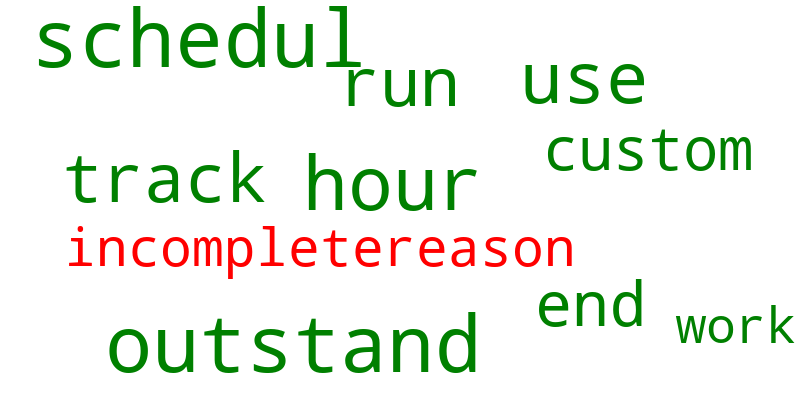
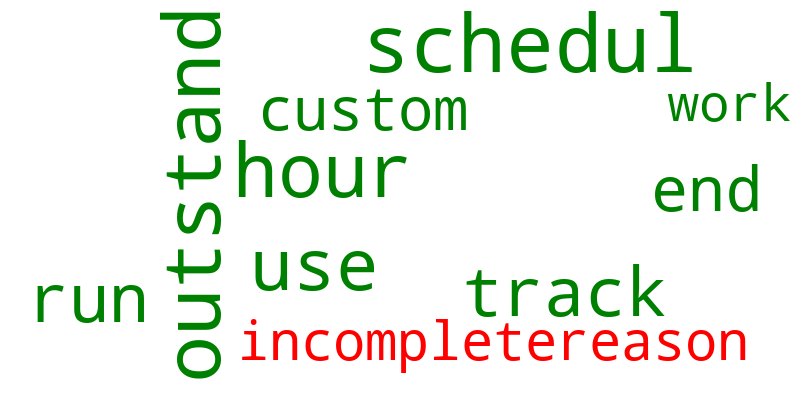
add 'source' parameter to explain() add generate_word_cloud() method

Changed region(s): [[0.0312, 0.27, 1.0, 0.96], [0.0312, 0.0, 1.0, 0.33], [0.6875, 0.33, 0.9688, 0.54]]

diff --git a/src/NLPClassifierExplainer/NLPClassificationExplainer.py b/src/NLPClassifierExplainer/NLPClassificationExplainer.py
@@ -1,14 +1,29 @@
 from .Explanation_of_tf_idf import get_similarity_per_class, get_keywords, get_keywords_per_class, find_overlap
+from wordcloud import WordCloud
 
 class NLPClassificationExplainer:
 
 
     def __init__ (self, model):
+        '''
+        
+        Instantiate an explainer class with specified model
+
+        Parameters
+        ----------
+
+        model: object
+            a text classification model that needs to have the following attributes
+                vectorizere: a sklearn-compatible vectorizer (eg: tf-idf)
+                classifier: a sklearn compatible classifier (eg: KNN classifier)
+
+        '''
+
         self.classifier = model.classifier
         self.vectorizer = model.vectorizer
         
 
-    def explain (self, query, top_n=10):
+    def explain (self, query, source=None, top_n=10):
         '''
         
 
@@ -16,13 +31,21 @@ class NLPClassificationExplainer:
         ----------
         query : str
             A note for which an recommendation has to be explained.
-            top_n - number of keywords to extract
+        
+        top_n: int
+            number of keywords to extract from same class neighbours 
+
+        source: list of str
+            a list of documents (strings) used to generate neighbours for explanations. 
+            if source is not provided, will try to use the classifier training data if available. Otherwise,
+            an exception will be thrown. 
+
  
 
         Raises
         ------
         AssertionError
-            If the model is not trained.
+        
 
         Returns
         -------
@@ -42,11 +65,17 @@ class NLPClassificationExplainer:
                   and each value is a 2D list containg the word (String) and
                   whether it is present in the query or not (Boolean).               
         '''
-            
-        source_tfidf  = self.classifier._fit_X
+
+        if source is not None:
+            source_tfidf = self.vectorizer.transform (source)
+        elif hasattr (self.classifier, '_fit_X'):
+              source_tfidf  = self.classifier._fit_X
+        else:
+            raise AssertionError ("No source provided and classifier has no training data.")
+        
+        
         source_labels = self.classifier.predict (source_tfidf) 
-        
-        
+
         results = {
             "similarity_per_class": get_similarity_per_class(self.vectorizer,  source_tfidf, source_labels,  query),
             "keywords": get_keywords(self.vectorizer, query, top_n=top_n),
@@ -55,3 +84,42 @@ class NLPClassificationExplainer:
             }
         
         return results
+
+
+    def generate_word_cloud (self, explanation, height=400, width=800,  background_color="white",
+                                max_font_size=80, min_word_length=2  ):
+        '''
+        Generate a word cloud from an explanation. 
+
+        Parameters
+        ----------
+            explanation: dict
+                the dictionary returned  by the explain() method
+
+            other parameters:
+                other parameters passed to the WordCloud function
+
+        Returns
+        -------
+            a WordCloud class instance
+
+        '''
+
+
+
+        # callback function for word cloud: 
+        # returns 'green' if the word is an overalapping word,  'red' otherwise
+        def _wc_color_func (word, font_size, position, orientation,
+                font_path, random_state):
+
+            overlap_1 = dict(list(explanation['overlap'].values())[0])
+            if not word in overlap_1 or overlap_1[word] == False:
+                return "red"
+            return "green"
+
+
+        wc = WordCloud(height=height, width=width, background_color=background_color,  color_func=_wc_color_func, 
+                        max_font_size=max_font_size, min_word_length=2, )            
+        wc.generate_from_frequencies (explanation['keywords'])
+        return wc
+

diff --git a/src/example.py b/src/example.py
@@ -28,23 +28,7 @@ print (f"Explainer's output : {explanation}")
 
 # generate a word cloud with the explanation
 
-from wordcloud import WordCloud
-
-
-# callback function for word cloud: 
-# returns 'green' if the word is an overalapping word,  'red' otherwise
-def wc_color_func (word, font_size, position, orientation,
-        font_path, random_state):
-
-    overlap_1 = dict(list(explanation['overlap'].values())[0])
-    if not word in overlap_1 or overlap_1[word] == False:
-        return "red"
-    return "green"
-
-
-wc = WordCloud(height=400, width=800, background_color="white",  color_func=wc_color_func,
-max_font_size=80, min_word_length=2, )
-wc.generate_from_frequencies (explanation['keywords'])
+wc = explainer.generate_word_cloud(explanation)
 wc.to_file(os.path.join(os.path.dirname(__file__),"../cloud.png"))
 
 
